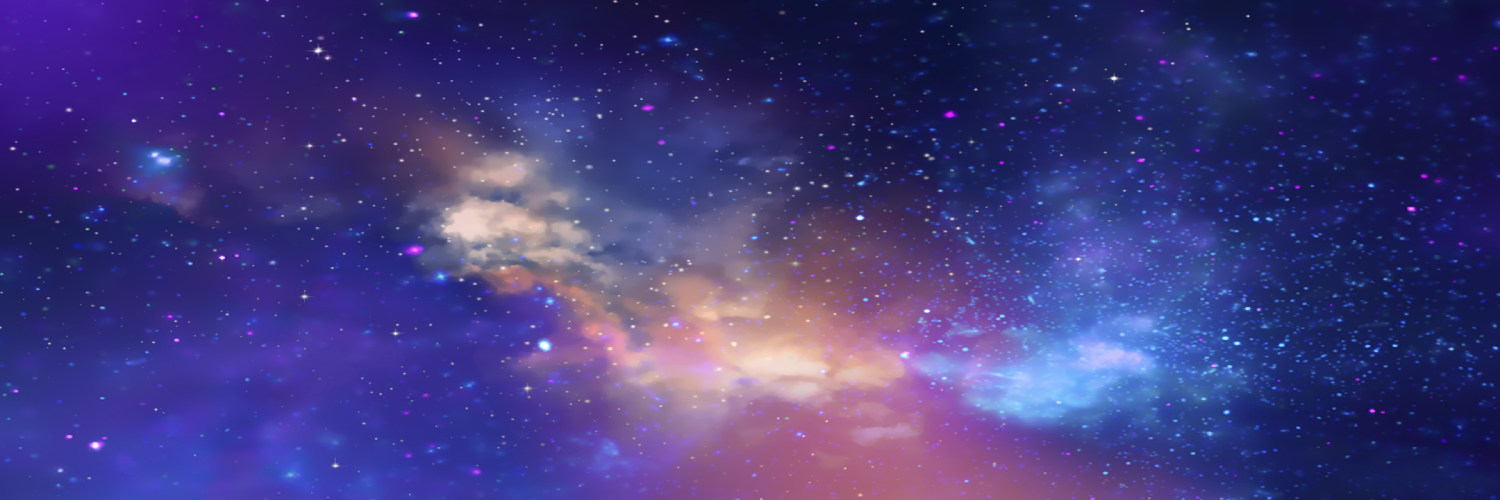
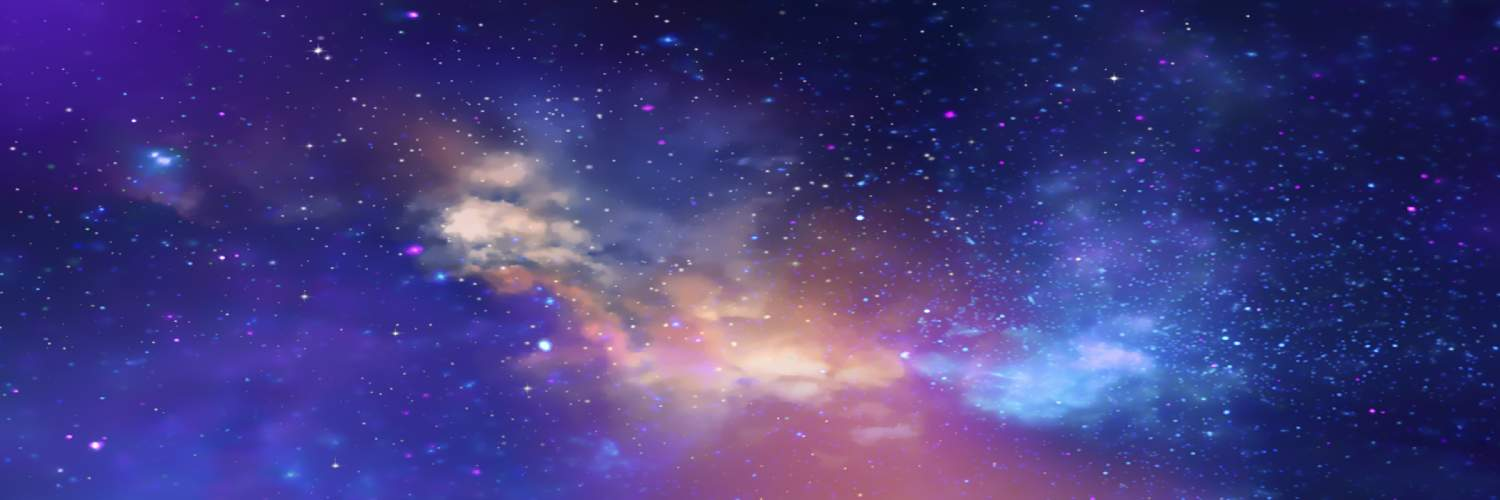
compressing images

diff --git a/_sc/2020-01-20-learning-new-language.md b/_sc/2020-01-20-learning-new-language.md
@@ -10,14 +10,14 @@ excerpt : "
 Some fundamental techniques I am convicted you can take advantage of to learn a new language quickly and efficiently while having fun."
 header :
     overlay_image: "https://beltus.github.io/vision/assets/images/galaxy.png"
-    teaser: "https://beltus.github.io/vision/assets/images/l0.jpg"
+    teaser: "https://beltus.github.io/vision/assets/images/scholarship_small.jpg"
 comments : true
 toc: true
 toc_sticky: true
 ---
 
 ## Introduction
-![](https://beltus.github.io/vision/assets/images/l0.jpg)
+![](https://beltus.github.io/vision/assets/images/scholarship.jpg)
 
 If you are reading this, then for some specific reason you wish to dive in to the seemingly "daunting" yet exciting process of learning a new language. Is it English, German, Spanish? I don't know and right now it doesn't really matter which of the languages you want to learn because, what I am about to share with you applies to all languages, so stay with me a little longer.
 

diff --git a/_blog/2020-02-14-breaking-process.md b/_blog/2020-02-14-breaking-process.md
@@ -16,6 +16,8 @@ toc: true
 toc_sticky: true
 ---
 
+![](https://beltus.github.io/vision/assets/images/p1.jpeg)
+
 I get a lot of questions from friends and students when they encounter different scholarship procedures and do not know or understand how to go about the process?. This misunderstanding often leads to frustration and consequently abandonment of the application process by most prospects. The most common cause of this is because students especially those who are new to the scholarship process are not able to recognize the different scholarship types and approach these accordingly.
 
 So if you stay with me here to the end of this article, İ will share some insights that will be a **game-changer** for every student out there who is about beginning his quest for a scholarship.

diff --git a/_posts/2020-01-29-quadruple-chances.md b/_posts/2020-01-29-quadruple-chances.md
@@ -10,13 +10,13 @@ excerpt: "
 There are millions of fishes in the sea but not everyone who goes fishing is able to catch one."
 header:
     overlay_image: "https://beltus.github.io/vision/assets/images/galaxy.png"
-    teaser: "https://beltus.github.io/vision/assets/images/s0.jpg"
+    teaser: "https://beltus.github.io/vision/assets/images/school_small.jpg"
 comments: true
 toc: true
 toc_sticky: true
 ---
 
-![](https://beltus.github.io/vision/assets/images/s0.jpg)
+![](https://beltus.github.io/vision/assets/images/school.jpg)
 
 > *There are millions of fishes in the sea but not everyone who goes fishing is able to catch one.*
 

diff --git a/_blog/2020-03-25-dataset-exploration-techniques.md b/_blog/2020-03-25-dataset-exploration-techniques.md
@@ -9,14 +9,14 @@ categories: [Blog] #[tutorials]
 excerpt : "Lets explore the COVID-19 dataset and others with interestingly simple yet powerful techniques."
 header :
     overlay_image: "https://beltus.github.io/vision/assets/images/galaxy.png"
-    teaser: "https://beltus.github.io/vision/assets/images/covid19.jpg"
+    teaser: "https://beltus.github.io/vision/assets/images/covid_small.jpg"
 
 comments: true
 toc: true
 toc_sticky: true
 ---
 
-![](https://beltus.github.io/vision/assets/images/covid19.jpg)
+![](https://beltus.github.io/vision/assets/images/covid.jpg)
 
 ***COVID-19 dataset download complete!***.
 

diff --git a/_ml/2020-03-25-dataset-exploration-techniques.md b/_ml/2020-03-25-dataset-exploration-techniques.md
@@ -9,14 +9,14 @@ categories: [Blog] #[tutorials]
 excerpt : "Lets explore the COVID-19 dataset and others with interestingly simple yet powerful techniques."
 header :
     overlay_image: "https://beltus.github.io/vision/assets/images/galaxy.png"
-    teaser: "https://beltus.github.io/vision/assets/images/covid19.jpg"
+    teaser: "https://beltus.github.io/vision/assets/images/covid_small.jpg"
 
 comments: true
 toc: true
 toc_sticky: true
 ---
 
-![](https://beltus.github.io/vision/assets/images/covid19.jpg)
+![](https://beltus.github.io/vision/assets/images/covid.jpg)
 
 ***COVID-19 dataset download complete!***.
 

diff --git a/_posts/2020-03-25-dataset-exploration-techniques.md b/_posts/2020-03-25-dataset-exploration-techniques.md
@@ -9,14 +9,14 @@ categories: [Blog] #[tutorials]
 excerpt : "Lets explore the COVID-19 dataset and others with interestingly simple yet powerful techniques."
 header :
     overlay_image: "https://beltus.github.io/vision/assets/images/galaxy.png"
-    teaser: "https://beltus.github.io/vision/assets/images/covid19.jpg"
+    teaser: "https://beltus.github.io/vision/assets/images/covid_small.jpg"
 
 comments: true
 toc: true
 toc_sticky: true
 ---
 
-![](https://beltus.github.io/vision/assets/images/covid19.jpg)
+![](https://beltus.github.io/vision/assets/images/covid.jpg)
 
 ***COVID-19 dataset download complete!***.
 

diff --git a/_blog/2020-03-05-supervised-unsupervised-learning.md b/_blog/2020-03-05-supervised-unsupervised-learning.md
@@ -9,7 +9,7 @@ categories: [Blog] #[tutorials]
 excerpt : "It doesn't matter whether you are a tech-genius or a street dancer, machine learning can be understood by anyone."
 header :
     overlay_image: "https://beltus.github.io/vision/assets/images/galaxy.png"
-    teaser: "https://beltus.github.io/vision/assets/images/mother_child.jpg"
+    teaser: "https://beltus.github.io/vision/assets/images/mother_child_small.jpg"
 comments : true
 toc: true
 toc_sticky: true

diff --git a/_ml/2020-03-05-supervised-unsupervised-learning.md b/_ml/2020-03-05-supervised-unsupervised-learning.md
@@ -9,7 +9,7 @@ categories: [Blog] #[tutorials]
 excerpt : "It doesn't matter whether you are a tech-genius or a street dancer, machine learning can be understood by anyone."
 header :
     overlay_image: "https://beltus.github.io/vision/assets/images/galaxy.png"
-    teaser: "https://beltus.github.io/vision/assets/images/mother_child.jpg"
+    teaser: "https://beltus.github.io/vision/assets/images/mother_child_small.jpg"
 comments : true
 toc: true
 toc_sticky: true

diff --git a/_posts/2020-03-05-supervised-unsupervised-learning.md b/_posts/2020-03-05-supervised-unsupervised-learning.md
@@ -9,7 +9,7 @@ categories: [Blog] #[tutorials]
 excerpt : "It doesn't matter whether you are a tech-genius or a street dancer, machine learning can be understood by anyone."
 header :
     overlay_image: "https://beltus.github.io/vision/assets/images/galaxy.png"
-    teaser: "https://beltus.github.io/vision/assets/images/mother_child.jpg"
+    teaser: "https://beltus.github.io/vision/assets/images/mother_child_small.jpg"
 comments : true
 toc: true
 toc_sticky: true

diff --git a/_blog/2020-01-20-learning-new-language.md b/_blog/2020-01-20-learning-new-language.md
@@ -10,7 +10,7 @@ excerpt : "
 Some fundamental techniques I am convicted you can take advantage of to learn a new language quickly and efficiently while having fun."
 header :
     overlay_image: "https://beltus.github.io/vision/assets/images/galaxy.png"
-    teaser: "https://beltus.github.io/vision/assets/images/scholarship.jpg"
+    teaser: "https://beltus.github.io/vision/assets/images/scholarship_small.jpg"
 comments : true
 toc: true
 toc_sticky: true

diff --git a/_posts/2020-01-20-learning-new-language.md b/_posts/2020-01-20-learning-new-language.md
@@ -10,7 +10,7 @@ excerpt : "
 Some fundamental techniques I am convicted you can take advantage of to learn a new language quickly and efficiently while having fun."
 header :
     overlay_image: "https://beltus.github.io/vision/assets/images/galaxy.png"
-    teaser: "https://beltus.github.io/vision/assets/images/scholarship.jpg"
+    teaser: "https://beltus.github.io/vision/assets/images/scholarship_small.jpg"
 comments : true
 toc: true
 toc_sticky: true

diff --git a/_blog/2020-01-29-quadruple-sscholarship-chances.md b/_blog/2020-01-29-quadruple-sscholarship-chances.md
@@ -10,7 +10,7 @@ excerpt: "
 There are millions of fishes in the sea but not everyone who goes fishing is able to catch one."
 header:
     overlay_image: "https://beltus.github.io/vision/assets/images/galaxy.png"
-    teaser: "https://beltus.github.io/vision/assets/images/school.jpg"
+    teaser: "https://beltus.github.io/vision/assets/images/school_small.jpg"
 comments: true
 toc: true
 toc_sticky: true
